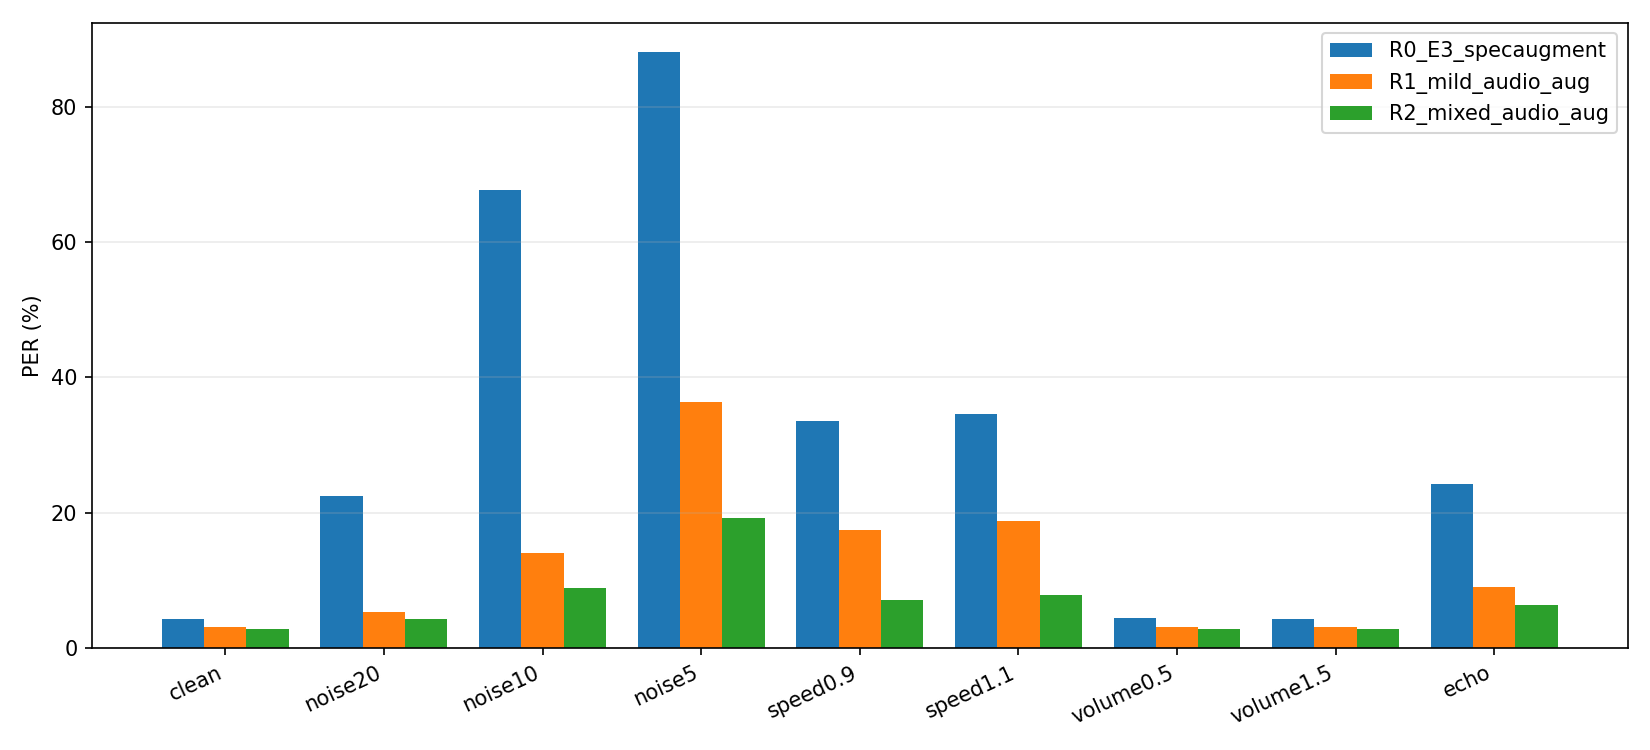
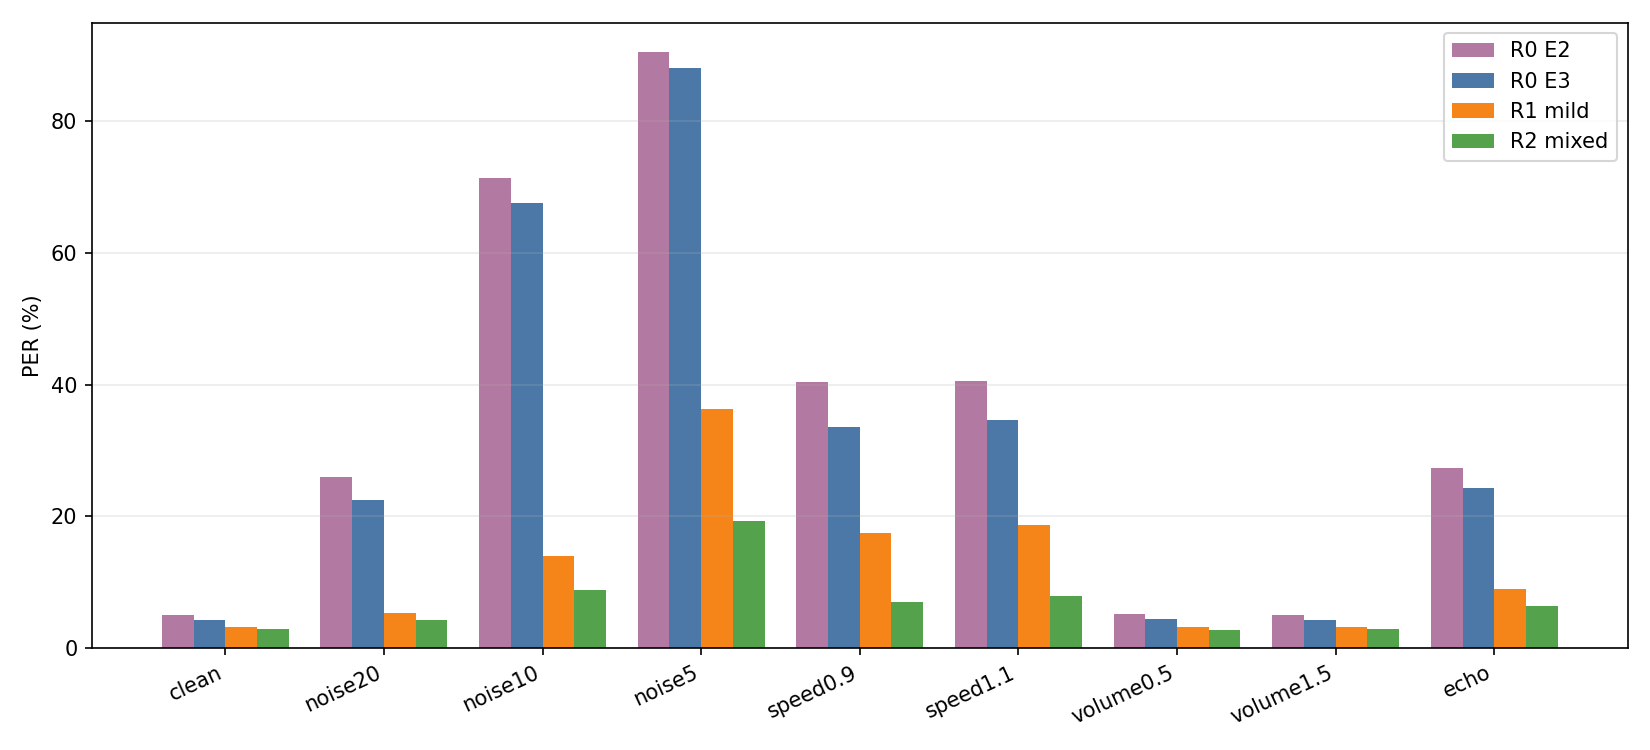
在鲁棒性柱状图中加入E2对照

diff --git a/scripts/plot_optimization_summary.py b/scripts/plot_optimization_summary.py
@@ -62,7 +62,19 @@ def plot_robustness(robust_matrix: str | Path, output_dir: Path) -> None:
     import matplotlib.pyplot as plt
 
     experiments = list(dict.fromkeys(row["experiment"] for row in rows))
-    bar_experiments = [exp for exp in experiments if exp != "R0_E2_no_specaugment"]
+    display_names = {
+        "R0_E2_no_specaugment": "R0 E2",
+        "R0_E3_specaugment": "R0 E3",
+        "R1_mild_audio_aug": "R1 mild",
+        "R2_mixed_audio_aug": "R2 mixed",
+    }
+    colors = {
+        "R0_E2_no_specaugment": "#B279A2",
+        "R0_E3_specaugment": "#4C78A8",
+        "R1_mild_audio_aug": "#F58518",
+        "R2_mixed_audio_aug": "#54A24B",
+    }
+    bar_experiments = experiments
     conditions = list(dict.fromkeys(row["condition"] for row in rows))
     value = {(row["experiment"], row["condition"]): float(row["per"]) * 100.0 for row in rows}
 
@@ -71,7 +83,13 @@ def plot_robustness(robust_matrix: str | Path, output_dir: Path) -> None:
     fig, ax = plt.subplots(figsize=(11, 5), dpi=150)
     for idx, exp in enumerate(bar_experiments):
         offsets = [pos - 0.4 + width / 2 + idx * width for pos in x]
-        ax.bar(offsets, [value.get((exp, cond), 0.0) for cond in conditions], width=width, label=exp)
+        ax.bar(
+            offsets,
+            [value.get((exp, cond), 0.0) for cond in conditions],
+            width=width,
+            label=display_names.get(exp, exp),
+            color=colors.get(exp),
+        )
     ax.set_xticks(x)
     ax.set_xticklabels(conditions, rotation=25, ha="right")
     ax.set_ylabel("PER (%)")
@@ -92,18 +110,6 @@ def plot_robustness(robust_matrix: str | Path, output_dir: Path) -> None:
             continue
         trade_rows.append((exp, clean * 100.0, sum(perturbed) / len(perturbed) * 100.0))
 
-    display_names = {
-        "R0_E2_no_specaugment": "R0 E2",
-        "R0_E3_specaugment": "R0 E3",
-        "R1_mild_audio_aug": "R1 mild",
-        "R2_mixed_audio_aug": "R2 mixed",
-    }
-    colors = {
-        "R0_E2_no_specaugment": "#B279A2",
-        "R0_E3_specaugment": "#4C78A8",
-        "R1_mild_audio_aug": "#F58518",
-        "R2_mixed_audio_aug": "#54A24B",
-    }
     label_offsets = {
         "R0_E2_no_specaugment": (-8, 7, "right"),
         "R0_E3_specaugment": (7, 6, "left"),

diff --git a/scripts/plot_real_noise.py b/scripts/plot_real_noise.py
@@ -40,13 +40,13 @@ def plot_matrix(rows: list[dict], out_path: str | Path) -> None:
     out_path = Path(out_path)
     out_path.parent.mkdir(parents=True, exist_ok=True)
     conditions = ["clean", "real_noise20", "real_noise10", "real_noise5"]
-    bar_experiments = ["R0_E3_specaugment", "R1_mild_audio_aug", "R2_mixed_audio_aug"]
     scatter_experiments = [
         "R0_E2_no_specaugment",
         "R0_E3_specaugment",
         "R1_mild_audio_aug",
         "R2_mixed_audio_aug",
     ]
+    bar_experiments = scatter_experiments
     labels = {
         "R0_E2_no_specaugment": "R0 E2",
         "R0_E3_specaugment": "R0 E3",
@@ -63,19 +63,21 @@ def plot_matrix(rows: list[dict], out_path: str | Path) -> None:
 
     fig, axes = plt.subplots(1, 2, figsize=(12.6, 4.5), dpi=150)
     x = list(range(len(conditions)))
-    width = 0.24
+    width = 0.8 / len(bar_experiments)
     for idx, exp in enumerate(bar_experiments):
-        offsets = [pos + (idx - 1) * width for pos in x]
+        offsets = [pos - 0.4 + width / 2 + idx * width for pos in x]
         ys = [value.get((exp, cond), 0.0) for cond in conditions]
         axes[0].bar(offsets, ys, width=width, label=labels[exp], color=colors[exp])
         for xpos, y in zip(offsets, ys):
-            axes[0].text(xpos, y + 0.7, f"{y:.1f}", ha="center", va="bottom", fontsize=8)
+            label_offset = 0.7 + (idx % 2) * 2.0
+            axes[0].text(xpos, y + label_offset, f"{y:.1f}", ha="center", va="bottom", fontsize=8)
     axes[0].set_xticks(x)
     axes[0].set_xticklabels(["clean", "20 dB", "10 dB", "5 dB"])
     axes[0].set_ylabel("PER (%)")
     axes[0].set_title("Real-noise mixed test")
     axes[0].legend()
     axes[0].grid(axis="y", alpha=0.25)
+    axes[0].set_ylim(0, max(value.values()) * 1.12)
 
     mean_points = []
     for exp in scatter_experiments:
@@ -104,6 +106,7 @@ def plot_matrix(rows: list[dict], out_path: str | Path) -> None:
 
     fig.tight_layout()
     fig.savefig(out_path, bbox_inches="tight")
+    plt.close(fig)
 
 
 def main() -> None:

diff --git a/scripts/plot_report_figures.py b/scripts/plot_report_figures.py
@@ -67,13 +67,13 @@ def plot_robustness(output_dir: Path) -> None:
 
     rows = read_csv("results/final_robustness_matrix.csv")
     show_conditions = ["clean", "noise20", "noise10", "speed0.9", "speed1.1", "echo"]
-    bar_experiments = ["R0_E3_specaugment", "R1_mild_audio_aug", "R2_mixed_audio_aug"]
     scatter_experiments = [
         "R0_E2_no_specaugment",
         "R0_E3_specaugment",
         "R1_mild_audio_aug",
         "R2_mixed_audio_aug",
     ]
+    bar_experiments = scatter_experiments
     short_names = {
         "R0_E2_no_specaugment": "R0 E2",
         "R0_E3_specaugment": "R0 E3",
@@ -91,9 +91,9 @@ def plot_robustness(output_dir: Path) -> None:
     fig, axes = plt.subplots(1, 2, figsize=(11, 4.4), dpi=180, gridspec_kw={"width_ratios": [1.7, 1.0]})
     ax = axes[0]
     x = list(range(len(show_conditions)))
-    width = 0.24
+    width = 0.8 / len(bar_experiments)
     for idx, exp in enumerate(bar_experiments):
-        offsets = [pos + (idx - 1) * width for pos in x]
+        offsets = [pos - 0.4 + width / 2 + idx * width for pos in x]
         ax.bar(
             offsets,
             [values[(exp, cond)] for cond in show_conditions],
